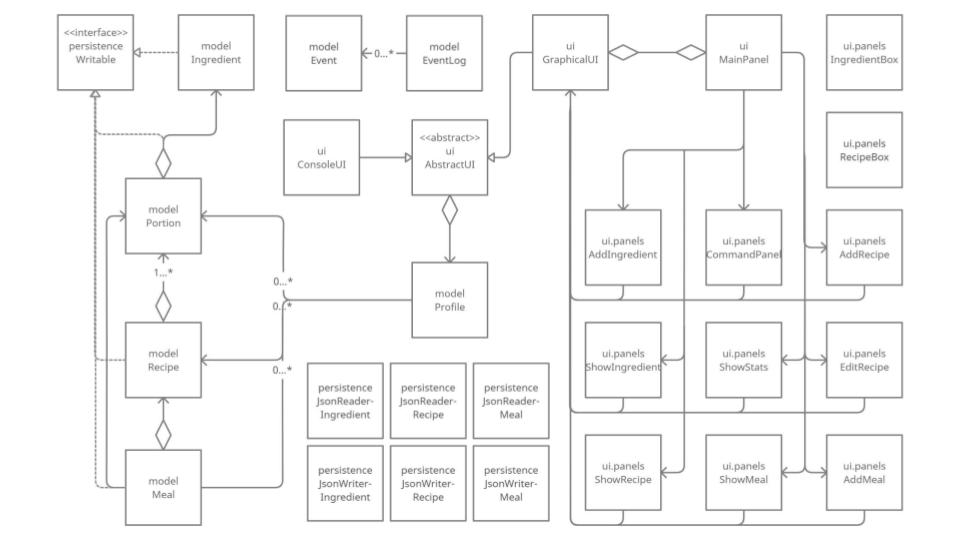
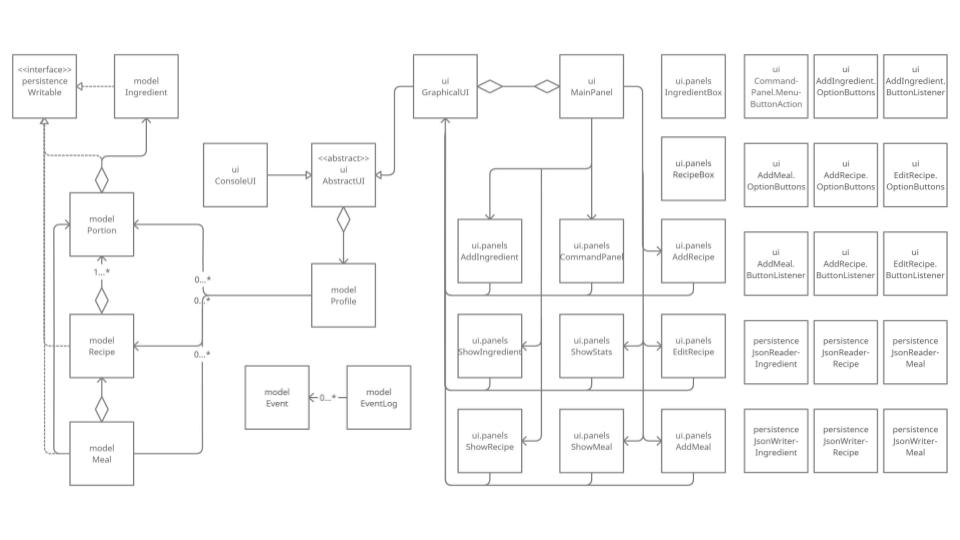
Phase 4: Task 3 Update

diff --git a/README.md b/README.md
@@ -58,8 +58,8 @@ Added Ingredient: Oat Milk
 
 ##Phase 4 Task 3:
 Potential refactoring changes:
-- Superclass for the different JPanels in MainPanel, as they all have the same associations, makes updatePanel blackbox
-- Similar gui panels (ie show field) superclassed and refactored for single point of control
+- Superclass for the different JPanels in MainPanel, as they all have the same associations
+- Implement observer pattern on new superclass, move MainPanel.updatePanels behavior te be observer dependant
 - Refactor doIngredient, doRecipe, doMeal into one function, using functions as parameters
 - Migrate getDailyTotal functionality to profile, using a dailyTotals field of type ArrayList<Portion> 
 - Change current add and delete field in profile method of editing to new editField method, for clearer debugging
